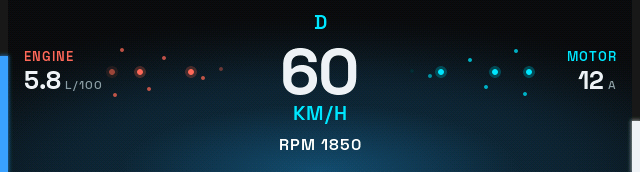
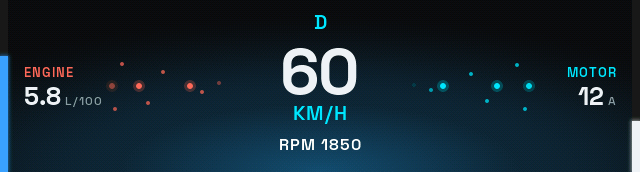
chore: update readme.md and add showcase GIF

diff --git a/firmware/src/ui/energy_flow_ui.cpp b/firmware/src/ui/energy_flow_ui.cpp
@@ -129,11 +129,16 @@ FlowState deriveFlow(const VehicleState &state) {
     return f;
 }
 
+// Readouts and funnels share the screen's vertical centre.
+constexpr int16_t kCenterY = 86;
+
 // --- readouts ---------------------------------------------------------------
+// Each readout is the 10px-tall tag, a 10px gap, then the 18px-tall value:
+// 38px of ink, centred on kCenterY.
 constexpr int16_t kLeftX = 24;
 constexpr int16_t kRightX = 616;
-constexpr int16_t kTagBaseline = 61;
-constexpr int16_t kValueBaseline = 89;
+constexpr int16_t kTagBaseline = kCenterY - 9;
+constexpr int16_t kValueBaseline = kCenterY + 19;
 constexpr int16_t kUnitGap = 4;
 constexpr lv_opa_t kDimmedOpa = 102;
 constexpr float kIdleAmps = 1.0f;
@@ -150,10 +155,10 @@ enum class Flow : uint8_t { Off, In, Out };
 
 constexpr float kRunPx = 124.0f;   // mouth to speed
 constexpr float kSpreadPx = 24.0f; // outer lanes' offset at the mouth
-constexpr float kFunnelY = 72.0f;  // the speed's vertical centre, where the lanes meet
+constexpr float kFunnelY = kCenterY; // where the lanes meet
 constexpr int16_t kFunnelW = 150;
 constexpr int16_t kFunnelH = 64;
-constexpr int16_t kFunnelTop = 40;
+constexpr int16_t kFunnelTop = kCenterY - kFunnelH / 2;
 
 struct Lane {
     float spread;

diff --git a/README.md b/README.md
@@ -1,6 +1,6 @@
 # Toyota Yaris (3rd Gen / XP130) — Virtual Cockpit
 
-![Virtual Cockpit](https://github.com/fellettigiacomo/toyota-yaris-3rd-gen-virtual-cockpit/blob/main/firmware/sim/screenshot/screenshots/01_cockpit.png?raw=true)
+![Virtual Cockpit](https://github.com/fellettigiacomo/toyota-yaris-3rd-gen-virtual-cockpit/blob/main/firmware/sim/screenshot/screenshots/demo.gif?raw=true)
 
 A digital instrument cluster for a 2014 Toyota Yaris Hybrid, driven by the
 car's own CAN bus, reverse-engineered from scratch.
